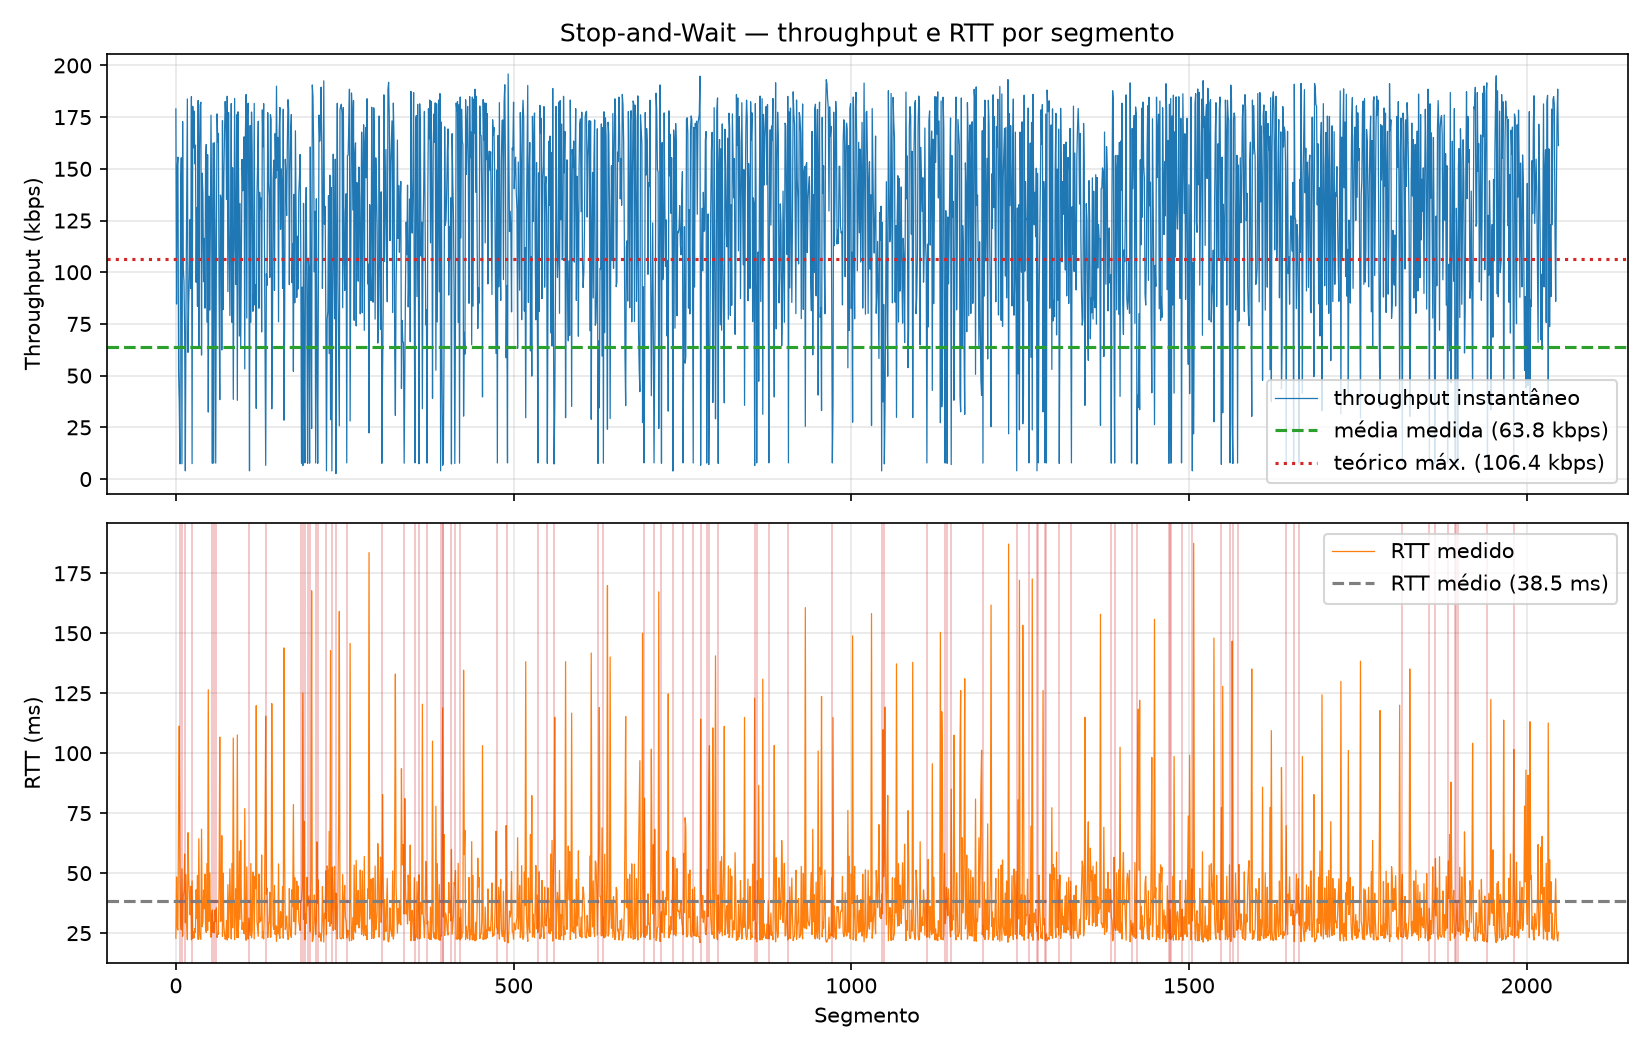
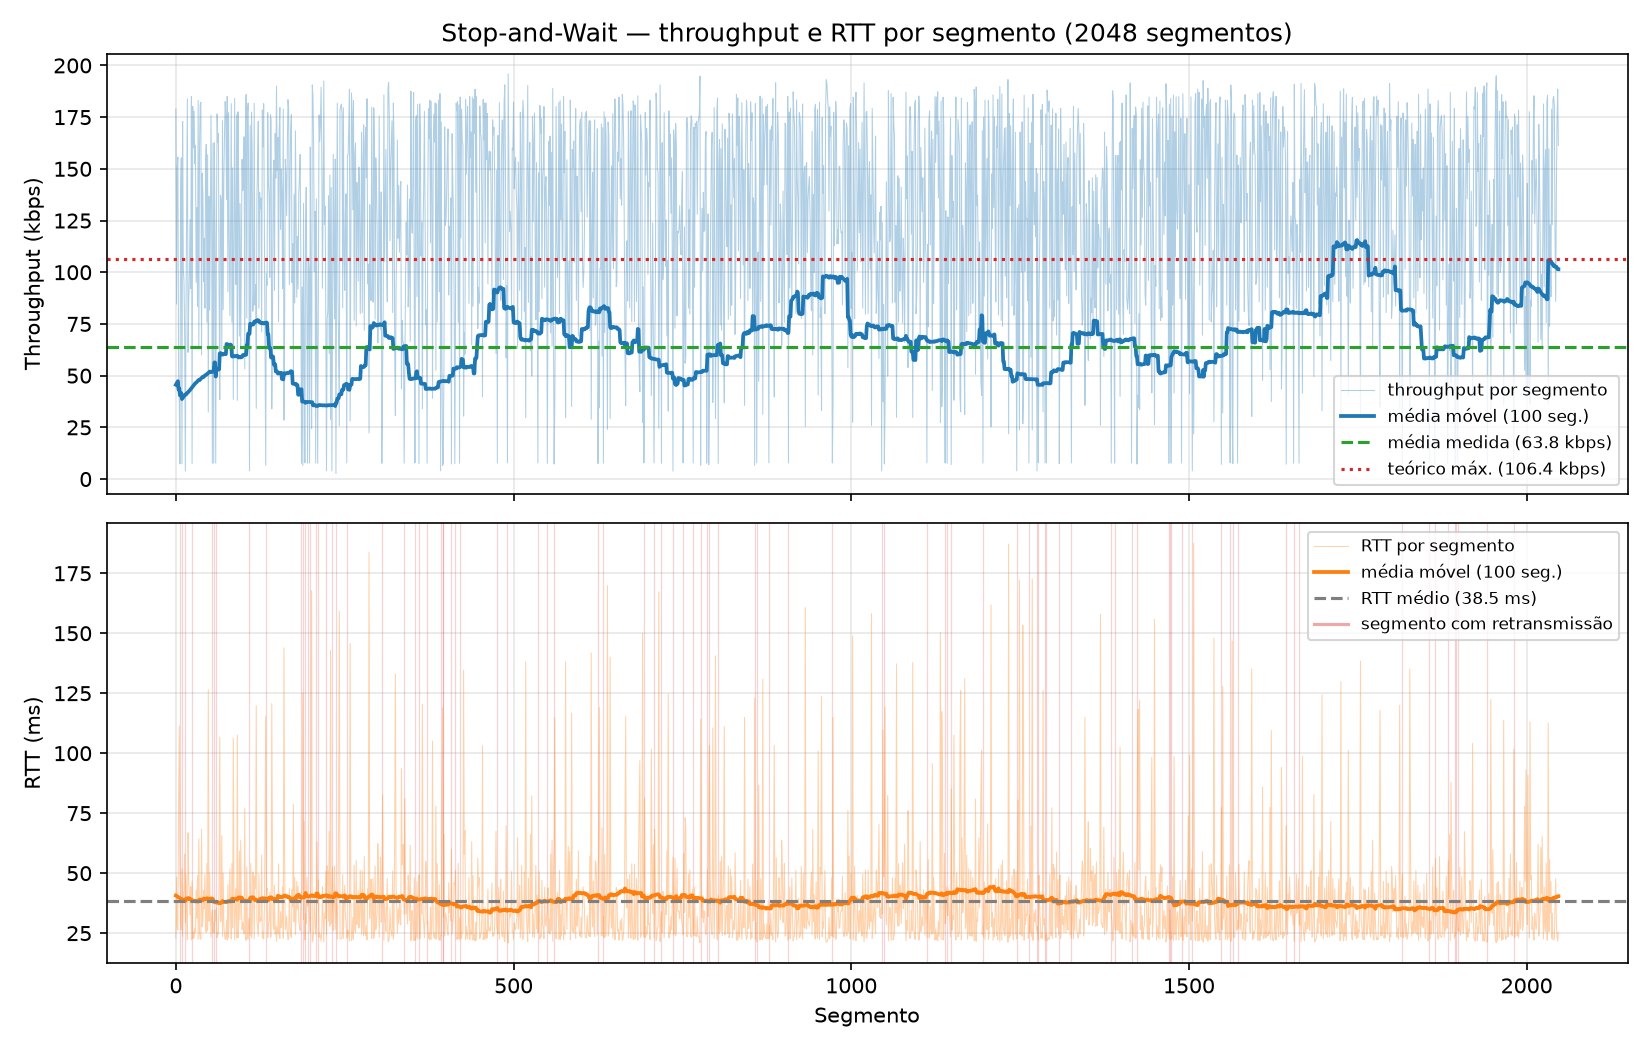
mudanças no graficos.py

Changed region(s): [[0.0927, 0.0914, 0.9891, 0.9143], [0.2782, 0.0, 0.7727, 0.061]]

diff --git a/graficos.py b/graficos.py
@@ -3,20 +3,38 @@
 Gera os gráficos de throughput e RTT por segmento a partir do CSV do cliente.
 
 Uso:
-    .venv/bin/python graficos.py metrics_grupo01_saw_20261015_143022.csv
+    .venv/bin/python graficos.py metrics_grupo01_saw_20261015_143022.csv [--janela 100]
 Gera: <nome_do_csv>.png
+
+Além dos valores por segmento, desenha a média móvel (janela de N segmentos), que
+mostra a tendência mesmo quando há milhares de pontos (medium/large).
 """
 
+import argparse
 import csv
-import sys
 
 import matplotlib.pyplot as plt
 
 
+def moving_average(values, window):
+    """Média de cada bloco deslizante de `window` valores (centrada no segmento)."""
+    half = window // 2
+    prefix = [0.0]
+    for v in values:
+        prefix.append(prefix[-1] + v)
+    out = []
+    for i in range(len(values)):
+        lo, hi = max(0, i - half), min(len(values), i + half + 1)
+        out.append((prefix[hi] - prefix[lo]) / (hi - lo))
+    return out
+
+
 def main():
-    if len(sys.argv) != 2:
-        sys.exit("uso: python3 graficos.py <arquivo.csv>")
-    path = sys.argv[1]
+    ap = argparse.ArgumentParser(description="Gráficos de throughput e RTT por segmento")
+    ap.add_argument("csv", help="CSV gerado pelo cliente")
+    ap.add_argument("--janela", type=int, default=100, help="segmentos na média móvel (padrão 100)")
+    args = ap.parse_args()
+    path = args.csv
 
     seg, rtt, thr, retx, sizes = [], [], [], [], []
     with open(path) as f:
@@ -36,23 +54,32 @@ def main():
     avg_thr = sum(sizes) * 8 / 1000 / sum(seg_times)
     retx_segs = [s for s, r in zip(seg, retx) if r > 0]
 
+    # Média móvel do throughput também ponderada pelo tempo (bits da janela / tempo da janela)
+    bits_ma = moving_average([b * 8 / 1000 for b in sizes], args.janela)
+    time_ma = moving_average(seg_times, args.janela)
+    thr_ma = [b / t for b, t in zip(bits_ma, time_ma)]
+    rtt_ma = moving_average(rtt, args.janela)
+
     fig, (ax1, ax2) = plt.subplots(2, 1, figsize=(11, 7), sharex=True)
 
-    ax1.plot(seg, thr, lw=0.6, label="throughput instantâneo")
+    ax1.plot(seg, thr, lw=0.5, alpha=0.35, color="tab:blue", label="throughput por segmento")
+    ax1.plot(seg, thr_ma, lw=1.8, color="tab:blue", label=f"média móvel ({args.janela} seg.)")
     ax1.axhline(avg_thr, color="tab:green", ls="--", label=f"média medida ({avg_thr:.1f} kbps)")
     ax1.axhline(theoretical, color="tab:red", ls=":", label=f"teórico máx. ({theoretical:.1f} kbps)")
     ax1.set_ylabel("Throughput (kbps)")
-    ax1.set_title("Stop-and-Wait — throughput e RTT por segmento")
-    ax1.legend(loc="lower right")
+    ax1.set_title(f"Stop-and-Wait — throughput e RTT por segmento ({len(seg)} segmentos)")
+    ax1.legend(loc="lower right", fontsize=8)
     ax1.grid(alpha=0.3)
 
-    ax2.plot(seg, rtt, lw=0.6, color="tab:orange", label="RTT medido")
-    ax2.axhline(avg_rtt, color="tab:gray", ls="--", label=f"RTT médio ({avg_rtt:.1f} ms)")
     for s in retx_segs:  # marca os segmentos que tiveram retransmissão
-        ax2.axvline(s, color="tab:red", alpha=0.3, lw=0.8)
+        ax2.axvline(s, color="tab:red", alpha=0.2, lw=0.6)
+    ax2.plot(seg, rtt, lw=0.5, alpha=0.35, color="tab:orange", label="RTT por segmento")
+    ax2.plot(seg, rtt_ma, lw=1.8, color="tab:orange", label=f"média móvel ({args.janela} seg.)")
+    ax2.axhline(avg_rtt, color="tab:gray", ls="--", label=f"RTT médio ({avg_rtt:.1f} ms)")
+    ax2.plot([], [], color="tab:red", alpha=0.4, label="segmento com retransmissão")
     ax2.set_xlabel("Segmento")
     ax2.set_ylabel("RTT (ms)")
-    ax2.legend(loc="upper right")
+    ax2.legend(loc="upper right", fontsize=8)
     ax2.grid(alpha=0.3)
 
     out = path.rsplit(".", 1)[0] + ".png"
